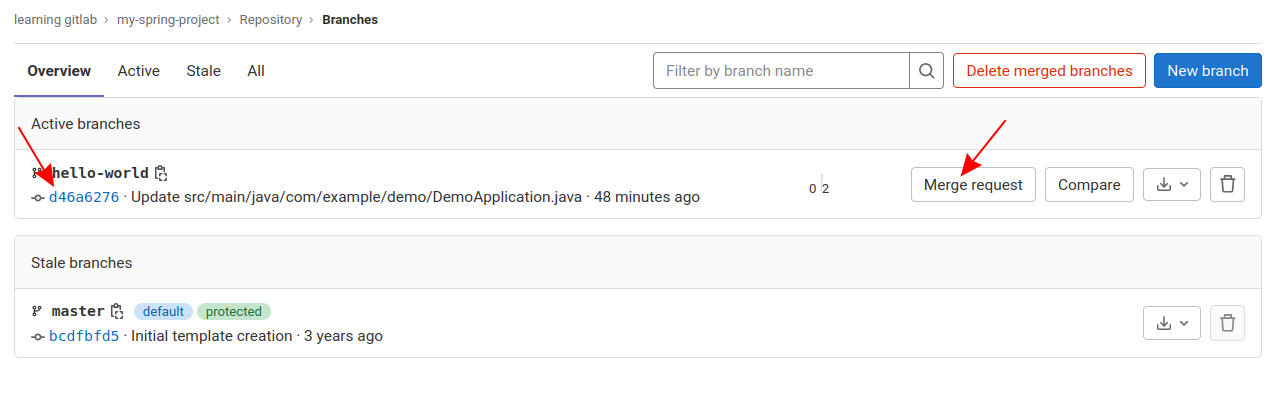
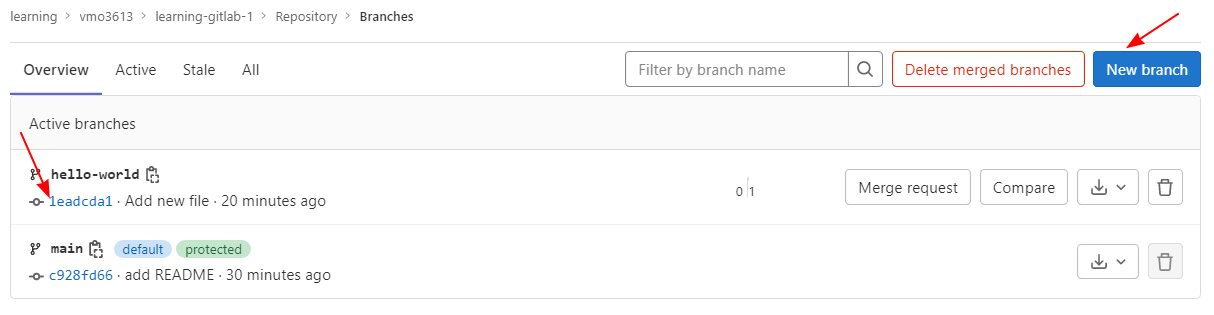
merging

diff --git a/labs/merge-request/README.md b/labs/merge-request/README.md
@@ -4,7 +4,7 @@ There are many different ways to create a merge request.
 
 > Merge requests are designed around a one-to-one (1:1) branch relationship. Only one open merge request may be associated with a given target branch at a time.
 
-For this Lab we will be using our `my-spring-project` project. From the GitLab dashboard click on the project and select **my-spring-project > Repository > Branches**.
+For this Lab we will be using our `learning-gitlab-1` project. From the GitLab dashboard click on the project and select **learning-gitlab-1 > Repository > Branches**.
 
 ![](/imgs/branches-1.png)
 
@@ -16,7 +16,7 @@ For this Lab we will be using our `my-spring-project` project. From the GitLab d
 1. **Title:** this is auto filled, you can add more relevant information for the reviewer
 2. **Description:** More detailed explaination of the changes for the reviewer
 3. **Assignee:** Who is creating this merge request, for now select your username.
-4. **Reviewer:** Who is going to review this merge request, for now select your username.
+4. **Reviewer:** Who is going to review this merge request, for now select instructor name.
 5. Click "Create merge request" button
 6. A new merge request will be created. Merge the changes to the master branch.
 
@@ -24,4 +24,4 @@ For this Lab we will be using our `my-spring-project` project. From the GitLab d
 
 ## Lab
 
-📋 Create a new branch and make some changes inside `my-spring-project/src/main/java/com/example/demo/DemoApplication.java` file and then create a merge request which is in `Draft` mode.
+📋 Create a new branch and create a new file with some dummy text inside `learning-gitlab-1/hello-2.txt` file and then create a merge request which is in `Draft` mode. Try merging the request and see what happens.
